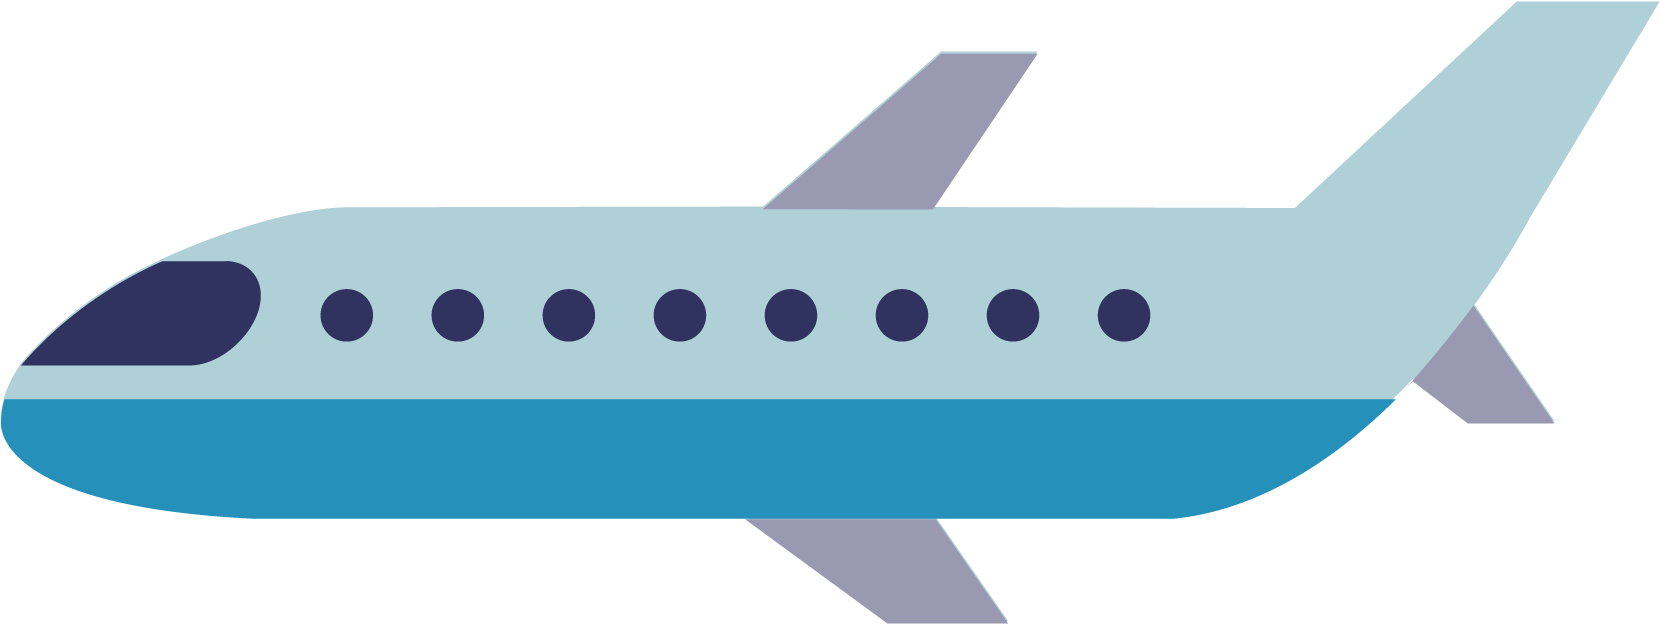
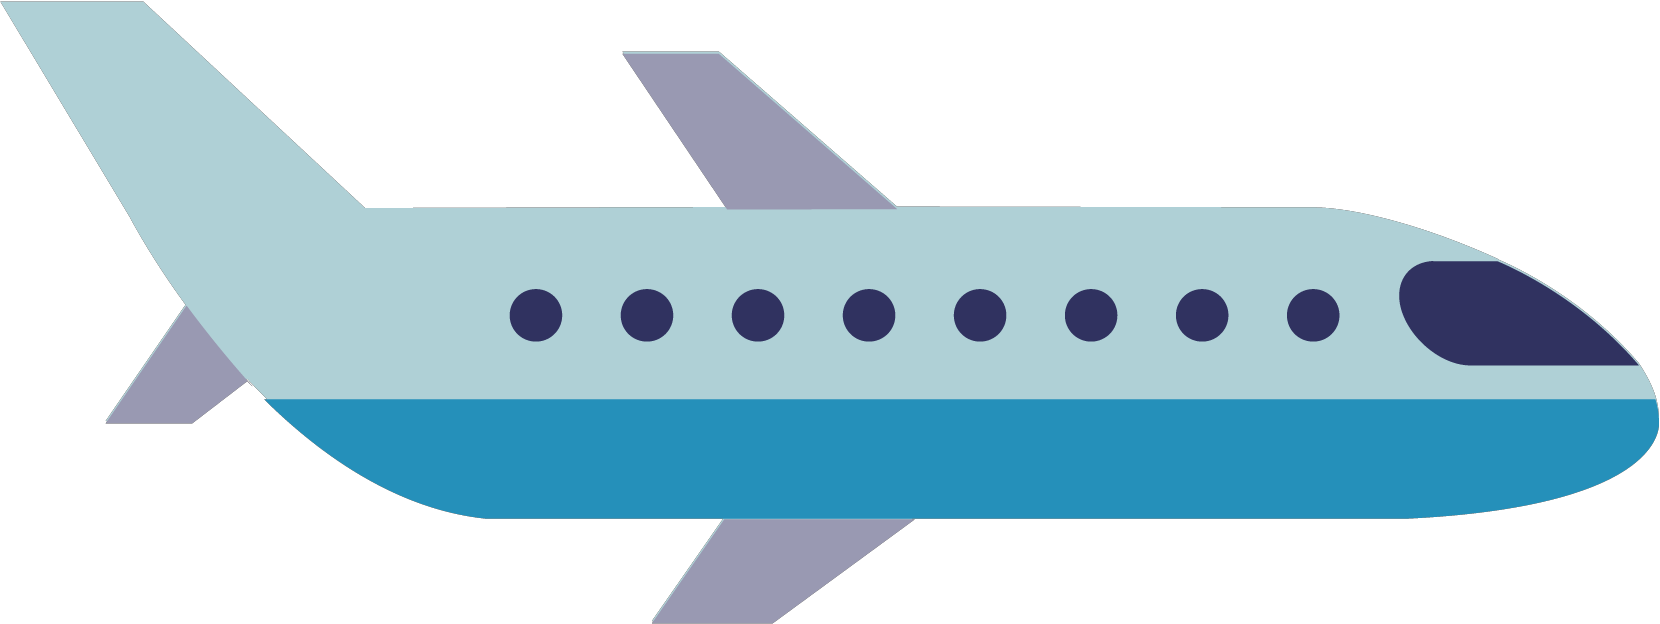
day 5 :)

diff --git a/airplane-tv/src/routes/episodeDetail.tsx b/airplane-tv/src/routes/episodeDetail.tsx
@@ -2,9 +2,12 @@ import React, { useEffect, useState } from 'react';
 
 import {useNavigate, useParams} from "react-router-dom"
 import Header from '../components/Header/header'
+import BackButton from '../components/Back-button/backButton'
 import './episodeDetail.scss'
-
 import { episodeService } from '../services/episodeService';
+const striptags = require('striptags')
+
+
 
 
 function Details(props: any){
@@ -43,15 +46,21 @@ function Details(props: any){
           navigate(`/episode/${previousEpisodeId}`)
       }
 
+      let summary = ""
 
-      console.log(show)
-     
+      if (episode["summary"] !== null && props.summary !== ""){
+        
+        summary = striptags(episode["summary"])
+ 
+      } else {
+        summary = "summary not availabe"
+      }   
 
      
     return(
         <section>
           <Header/>
-          
+          <BackButton/>
             <section id="allInfo">
                 <section id="currentEpisode">
                 <h1>{show["name"]} : {episode["name"]}</h1>
@@ -61,7 +70,7 @@ function Details(props: any){
                           <p>Episode: {episode["number"]}</p>
                           <p>Airtime: {episode["airdate"]} {episode["airtime"]}</p>
                           <p>Runtime: {episode["runtime"]} min</p>
-                          <p>Summary: {episode["summary"] !== null && episode["summary"] !== ""? episode["summary"] : "No summary available"}</p>
+                          <p>Summary: {summary}</p>
                       </section>
                       <section id="buttonsOtherEp">
                           <button onClick={toNextEpisode}>
@@ -74,15 +83,23 @@ function Details(props: any){
                 </section>
                 <section id="InfoShow">
                   <h2>Show info</h2>
-                  <p>Name: {show["name"]}</p>
-                  <p>Type: {show["type"]}</p>
-                  <p>Language: {show["language"]}</p>
-                  <p>Premiered: {show["premiered"]}</p>
-                  <p>Ended: {show["ended"] !== null? show["ended"]: "/"}</p>
-                 { /*<p>{show["summary"]}</p>*/}
-                 <button>
-                 <a href={show["officialSite"]} target="_blank">Visit website</a>
-                 </button>
+                  <div id="InfoWithImage">
+                    <div id="serieImage">
+                      <img src={show?.image?.original} alt={show["name"]} height="170px" />
+                      </div>
+                    <div>
+                      <p>Name: {show["name"]}</p>
+                      <p>Type: {show["type"]}</p>
+                      <p>Language: {show["language"]}</p>
+                      <p>Premiered: {show["premiered"]}</p>
+                      <p>Ended: {show["ended"] !== null? show["ended"]: "/"}</p>
+                         
+                    </div>
+                  </div>
+                  {show["officalSite"] !== null && show["officialSite"] !== ""?  
+                      <button>
+                      <a href={show["officialSite"]} target="_blank">Visit website</a>
+                      </button> : ""}
                 </section>
             </section>    
         </section>

diff --git a/airplane-tv/src/components/Episode-list/episode-list.tsx b/airplane-tv/src/components/Episode-list/episode-list.tsx
@@ -1,4 +1,4 @@
-import React, {useEffect, useState} from 'react';
+import React, {useEffect, useRef, useState} from 'react';
 import EpisodeComp from './Episode/episode'
 import './episode-list.scss';
 import {episodeService} from '../../services/episodeService'
@@ -10,10 +10,14 @@ import { fetchEpisodes } from '../../Store/Facade';
 import {Episode, EpisodeState} from '../../Store/state'
 import { selectEpisodes, selectEpisodesError} from '../../Store/Selectors'
 import {StoreState} from '../../Store/storeState'
+ 
 
- function useList(){
+
+function useList(this: any){
   /////// WITH STORE ///////////
 
+  const [country, setCountry] = useState('')
+let countrySet = false
  const episodes = useSelector<EpisodeState, any>(
     selectEpisodes
   ); 
@@ -24,18 +28,41 @@ import {StoreState} from '../../Store/storeState'
 
   const dispatch = useDispatch();
 
+
  useEffect(() => {
-  episodeService.fetchEpisodes()
-  .then(response => {
+   if(countrySet == false){
+    episodeService.fetchEpisodes()
+      .then(response => {
+      dispatch(fetchEpisodes(response));
+    });
+   } else {
+    episodeService.fetchEpisodesCountry(country)
+    .then(response => {
     dispatch(fetchEpisodes(response));
   });
+   }
+  
   }, [dispatch])
 
-  const target = React.createRef() as any;
+  const useDataCountry = (e: any) => {
+    e.preventDefault()
+
+   countrySet = false;
+      episodeService.fetchEpisodesCountry(country)
+      .then(response => {
+        dispatch(fetchEpisodes(response));
+      });
+  
+  }
+
+
 
   return (
     <section>
-
+      <form>
+        <input placeholder="Country in ISO 3166-1 code " onChange={event => setCountry(event.target.value)}/>
+        <button onClick={useDataCountry}id="countryButton">Search country</button>
+      </form>
     <main className="episodes" id="episodesOverview" >
       {
           episodes.map((x: any) => {

diff --git a/airplane-tv/public/index.html b/airplane-tv/public/index.html
@@ -5,6 +5,9 @@
     <link rel="icon" href="%PUBLIC_URL%/favicon.ico" />
     <meta name="viewport" content="width=device-width, initial-scale=1" />
     <meta name="theme-color" content="#000000" />
+    <link rel="preconnect" href="https://fonts.googleapis.com">
+    <link rel="preconnect" href="https://fonts.gstatic.com" crossorigin>
+    <link href="https://fonts.googleapis.com/css2?family=Kumbh+Sans&display=swap" rel="stylesheet">
     <meta
       name="description"
       content="Web site created using create-react-app"

diff --git a/airplane-tv/src/components/Episode-list/Episode/episode.tsx b/airplane-tv/src/components/Episode-list/Episode/episode.tsx
@@ -1,7 +1,6 @@
 import React from 'react';
 import './episode.scss'
 import {Link, Outlet} from "react-router-dom"
-import { setSyntheticLeadingComments } from 'typescript';
 var striptags = require('striptags')
 
 
@@ -15,8 +14,6 @@ var summary = ""
                 summary = `${summary.substr(0, Math.min(summary.length, summary.lastIndexOf(" ")))}...`
                 
             } 
-        
-     
     } else {
         summary = "summary not availabe"
     }

diff --git a/airplane-tv/src/index.scss b/airplane-tv/src/index.scss
@@ -1,12 +1,12 @@
 body {
   margin: 0;
-  font-family: -apple-system, BlinkMacSystemFont, 'Segoe UI', 'Roboto', 'Oxygen',
-    'Ubuntu', 'Cantarell', 'Fira Sans', 'Droid Sans', 'Helvetica Neue',
-    sans-serif;
+  font-family: 'Kumbh Sans', sans-serif;
   -webkit-font-smoothing: antialiased;
   -moz-osx-font-smoothing: grayscale;
   background-color: #1d1e20;
   color: white;
+  cursor:url('./images/paperAirplane.cur') 30 0 , auto;
+  min-height: 100vh;
 }
 
 

diff --git a/airplane-tv/src/components/Episode-list/Episode/episode.scss b/airplane-tv/src/components/Episode-list/Episode/episode.scss
@@ -2,7 +2,7 @@
     padding: 8px;
     margin: 17px;
     width: 250px;
-    height: 160px;
+    height: 170px;
     background-color: #323335;
     position: relative;
 }
@@ -80,6 +80,7 @@ button:active {
 }
 
 
+
 button {
     margin: auto;
 }
@@ -89,5 +90,6 @@ button {
     color: white;
     text-decoration: none;
 }
+
 
 

diff --git a/airplane-tv/src/components/Episode-list/episode-list.scss b/airplane-tv/src/components/Episode-list/episode-list.scss
@@ -4,4 +4,21 @@
     justify-content: space-around;
 }
 
+#countryButton {
+    display: initial;
+    position: initial;
+    background-color: #0053ba;
+    margin-left: 5px;
+}
 
+form {
+    position: fixed;
+    top: 1%;
+    right: 5%;
+    z-index: 5;
+}
+
+form input {
+    padding: .3em 1em;
+    border: none;
+}

diff --git a/airplane-tv/src/components/Back-button/backButton.tsx b/airplane-tv/src/components/Back-button/backButton.tsx
@@ -1,2 +1,13 @@
-import react from 'react'
+import React from 'react'
+import { Link, Outlet } from 'react-router-dom'
+import './backButton.scss'
 
+
+function backButton(){
+  return(<div id="back">
+      <Link to={`/`} id="linkButton">Back</Link>
+      <Outlet />
+  </div>)
+}
+
+export default backButton

diff --git a/airplane-tv/src/components/Header/header.scss b/airplane-tv/src/components/Header/header.scss
@@ -17,11 +17,14 @@ header button {
 
 img#airplane{
     background-color: #1d1e20;
-    transform: scaleX(-1);
       height: 30px;
       position: fixed;
       left: 6%;
       top: 1.5%;
+}
+
+img#airplane:hover {
+    transform: rotate(10deg);
 }
   
   

diff --git a/airplane-tv/src/components/Back-button/backButton.scss b/airplane-tv/src/components/Back-button/backButton.scss
@@ -1,0 +1,9 @@
+div #back {
+    background-color: #0053ba;
+    padding: 4px 8px;
+    border-radius: 10px;
+    color: white;
+    position: fixed;
+    top: 8%;
+    left: 1%;
+}

diff --git a/airplane-tv/src/routes/episodeDetail.scss b/airplane-tv/src/routes/episodeDetail.scss
@@ -53,6 +53,15 @@
     text-decoration: none;
 }
 
+#InfoWithImage {
+    display: flex;
+}
+
+#serieImage {
+    text-align: center;
+    margin: 1em;
+}
+
 
 
 
